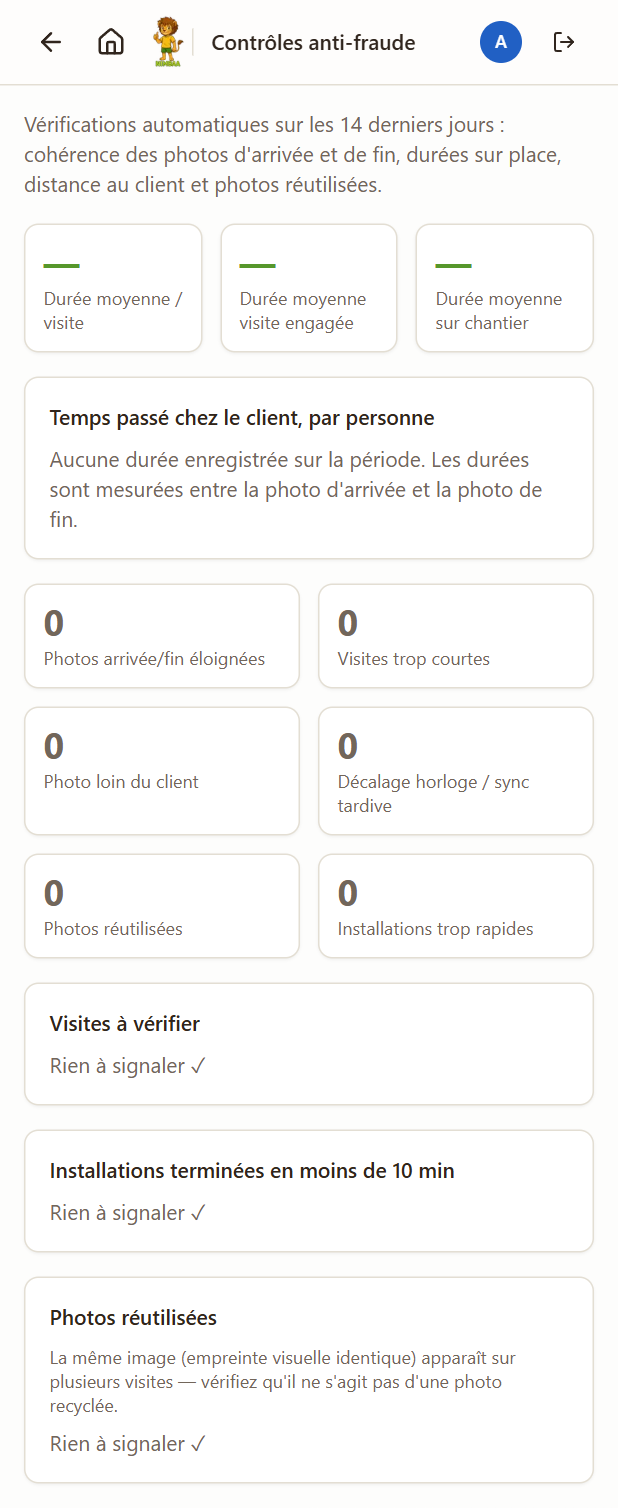
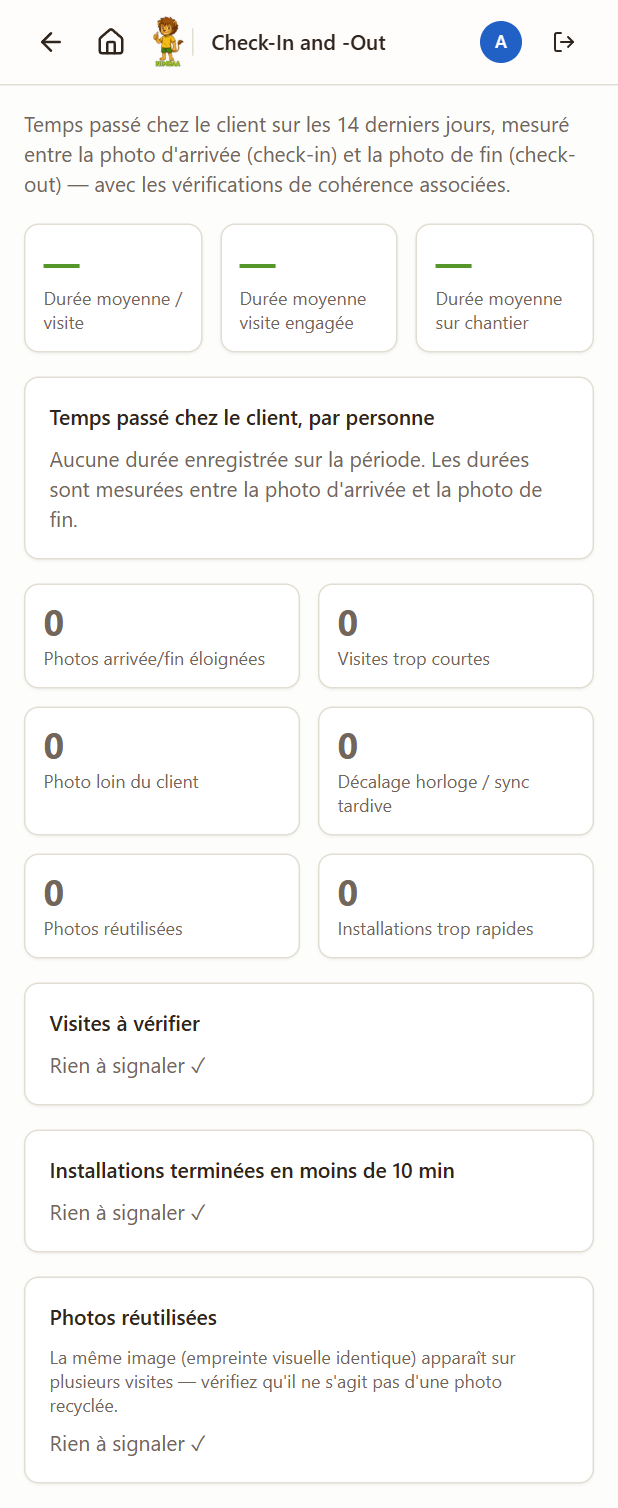
Manual: follow the Check-In and -Out rename

Changed region(s): [[0.0307, 0.0623, 0.9223, 0.1247], [0.4919, 0.0, 0.6764, 0.0312], [0.3997, 0.0, 0.4612, 0.0312]]

diff --git a/public/manuel.html b/public/manuel.html
@@ -632,7 +632,7 @@
       <li><strong>Pipeline</strong> — toutes les affaires par étape, avec type d'activité et tags sur chaque carte, filtres et export CSV.</li>
       <li><strong>Audit photos</strong> — contrôle des photos de visites et d'installations.</li>
       <li><strong>Pipeline installations</strong> — suivi des poses en attente, en cours, terminées.</li>
-      <li><strong>Contrôles anti-fraude</strong> — temps passé et vérifications automatiques (ci-dessous).</li>
+      <li><strong>Check-In and -Out</strong> — temps passé chez le client et vérifications automatiques (ci-dessous).</li>
       <li><strong>Commissions</strong> — le panneau de paie (section 12).</li>
     </ul>
     <p>Les listes se filtrent par <strong>secteur</strong>, <strong>type d'activité</strong>, <strong>tag</strong> et <strong>personne</strong> — les mêmes filtres que sur les statistiques.</p>
@@ -643,11 +643,11 @@
   </figure>
 </section>
 
-<!-- ---- 11b. Contrôles anti-fraude ---- -->
+<!-- ---- 11b. Check-In and -Out ---- -->
 <section class="screen sub" id="controles">
   <div class="txt">
-    <h3>Contrôles anti-fraude &amp; temps passé</h3>
-    <p>Les photos d'arrivée et de fin ne servent pas qu'à prouver le passage : elles alimentent cette page, qui couvre les <strong>14 derniers jours</strong>.</p>
+    <h3>Check-In and -Out</h3>
+    <p>Les photos d'arrivée (<em>check-in</em>) et de fin (<em>check-out</em>) ne servent pas qu'à prouver le passage : elles alimentent cette page, qui couvre les <strong>14 derniers jours</strong>. On y accède depuis l'<strong>Espace manager</strong> (onglets Commerciaux et Techniciens) ainsi que depuis les <strong>Statistiques commerciales</strong> et <strong>Statistiques techniciens</strong>.</p>
 
     <h4>Le temps réellement passé chez le client</h4>
     <ul>
@@ -673,8 +673,8 @@
     </div>
   </div>
   <figure class="phone">
-    <img src="/manuel/18-controls.png" alt="Page Contrôles anti-fraude : moyennes de durée, temps par personne et six compteurs de vérification à zéro" />
-    <figcaption>Contrôles anti-fraude : durées moyennes, temps par personne, et six vérifications automatiques.</figcaption>
+    <img src="/manuel/18-controls.png" alt="Page Check-In and -Out : moyennes de durée, temps par personne et six compteurs de vérification à zéro" />
+    <figcaption>Check-In and -Out : durées moyennes, temps par personne, et six vérifications automatiques.</figcaption>
   </figure>
 </section>
 
